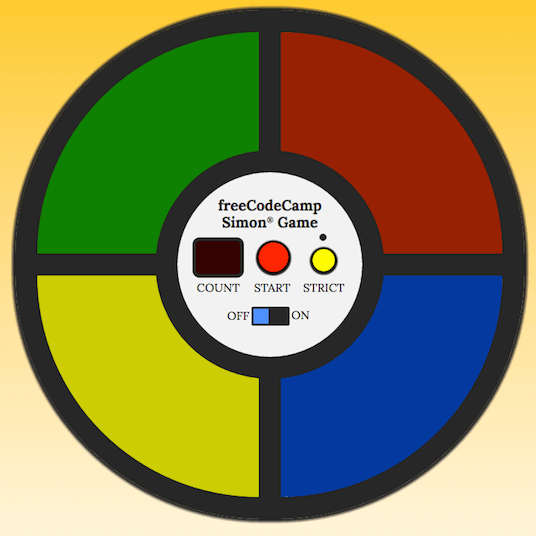
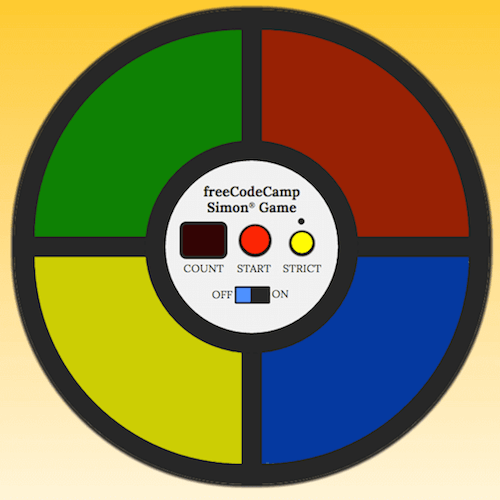
add new cards

diff --git a/index.html b/index.html
@@ -48,69 +48,68 @@
             <p class="col-sm-12">Click on the images below to see what I've been working on recently.</p>
             <article class="card col-sm-6 col-md-4 col-lg-3">
                 <a href="http://codepen.io/matt2112/full/KzvVBX/" target="_blank">
-                    <img class="card-img-top img-fluid" src="img/calc.png" alt="Card image cap">
+                    <img class="card-img-top img-fluid" src="img/calc.png" alt="project screenshot">
                 </a>
                 <div class="card-block">
                     <h4 class="card-title">Calculator</h4>
-                    <p class="card-text">A simple calculator built using Javascript and CSS.</p>
+                    <p class="card-text">A simple calculator, built using Javascript and CSS.</p>
                 </div>
                 <a href="http://codepen.io/matt2112/pen/KzvVBX" target="_blank" class="btn btn-primary code-link">View code on CodePen</a>
             </article>
 
             <article class="card col-sm-6 col-md-4 col-lg-3">
                 <a href="http://codepen.io/matt2112/full/LkLyGO/" target="_blank">
-                    <img class="card-img-top img-fluid" src="img/simon.png" alt="Card image cap">
+                    <img class="card-img-top img-fluid" src="img/simon.png" alt="project screenshot">
                 </a>
                 <div class="card-block">
                     <h4 class="card-title">Simon Game</h4>
-                    <p class="card-text">A Simon Game imitation built using Javascript and CSS.</p>
+                    <p class="card-text">A Simon Game imitation, built using Javascript and CSS.</p>
                 </div>
                 <a href="http://codepen.io/matt2112/pen/LkLyGO" target="_blank" class="btn btn-primary code-link">View code on CodePen</a>
             </article>
 
             <article class="card col-sm-6 col-md-4 col-lg-3">
-                <img class="card-img-top img-fluid" src="img/calc.png" alt="Card image cap">
+                <a href="http://codepen.io/matt2112/full/QyPqLq/" target="_blank">
+                    <img class="card-img-top img-fluid" src="img/russelltribute.png" alt="project screenshot">
+                </a>
                 <div class="card-block">
-                    <h4 class="card-title">Project 1</h4>
-                    <p class="card-text">Some quick example text to build on the card title and make up the bulk of the card's content.</p>
-                    <a href="#" class="btn btn-primary">Go somewhere</a>
+                    <h4 class="card-title">Bertrand Russell tribute page</h4>
+                    <p class="card-text">A simple tribute page to the philosopher, built using CSS and Bootstrap 3.</p>
                 </div>
+                <a href="http://codepen.io/matt2112/pen/QyPqLq" target="_blank" class="btn btn-primary code-link">View code on CodePen</a>
             </article>
 
             <article class="card col-sm-6 col-md-4 col-lg-3">
-                <img class="card-img-top img-fluid" src="img/calc.png" alt="Card image cap">
+                <a href="http://codepen.io/matt2112/full/BzzrOB/" target="_blank">
+                    <img class="card-img-top img-fluid" src="img/pomodoro.png" alt="project screenshot">
+                </a>
                 <div class="card-block">
-                    <h4 class="card-title">Project 1</h4>
-                    <p class="card-text">Some quick example text to build on the card title and make up the bulk of the card's content.</p>
-                    <a href="#" class="btn btn-primary">Go somewhere</a>
+                    <h4 class="card-title">Pomodoro Clock</h4>
+                    <p class="card-text">A timer for practitioners of the pomodoro technique, built using Javascript, CSS and jQuery.</p>
                 </div>
+                <a href="http://codepen.io/matt2112/pen/BzzrOB" target="_blank" class="btn btn-primary code-link">View code on CodePen</a>
             </article>
 
             <article class="card col-sm-6 col-md-4 col-lg-3">
-                <img class="card-img-top img-fluid" src="img/calc.png" alt="Card image cap">
+                <a href="http://codepen.io/matt2112/full/vGGByN/" target="_blank">
+                    <img class="card-img-top img-fluid" src="img/weather.png" alt="project screenshot">
+                </a>
                 <div class="card-block">
-                    <h4 class="card-title">Project 1</h4>
-                    <p class="card-text">Some quick example text to build on the card title and make up the bulk of the card's content.</p>
-                    <a href="#" class="btn btn-primary">Go somewhere</a>
+                    <h4 class="card-title">Local Weather App</h4>
+                    <p class="card-text">An app to access information about the local weather using an API, built using Javascript, CSS and jQuery.</p>
                 </div>
+                <a href="http://codepen.io/matt2112/pen/vGGByN" target="_blank" class="btn btn-primary code-link">View code on CodePen</a>
             </article>
 
             <article class="card col-sm-6 col-md-4 col-lg-3">
-                <img class="card-img-top img-fluid" src="img/calc.png" alt="Card image cap">
+                <a href="http://codepen.io/matt2112/full/pyZrNr/" target="_blank">
+                    <img class="card-img-top img-fluid" src="img/wikipedia.png" alt="project screenshot">
+                </a>
                 <div class="card-block">
-                    <h4 class="card-title">Project 1</h4>
-                    <p class="card-text">Some quick example text to build on the card title and make up the bulk of the card's content.</p>
-                    <a href="#" class="btn btn-primary">Go somewhere</a>
+                    <h4 class="card-title">Wikipedia App</h4>
+                    <p class="card-text">An app that interfaces with Wikipedia's API, built using Javascript, CSS and jQuery.</p>
                 </div>
-            </article>
-
-            <article class="card col-sm-6 col-md-4 col-lg-3">
-                <img class="card-img-top img-fluid" src="img/calc.png" alt="Card image cap">
-                <div class="card-block">
-                    <h4 class="card-title">Project 1</h4>
-                    <p class="card-text">Some quick example text to build on the card title and make up the bulk of the card's content.</p>
-                    <a href="#" class="btn btn-primary">Go somewhere</a>
-                </div>
+                <a href="http://codepen.io/matt2112/pen/pyZrNr" target="_blank" class="btn btn-primary code-link">View code on CodePen</a>
             </article>
 
             <article class="card col-sm-6 col-md-4 col-lg-3">
@@ -123,16 +122,16 @@
             </article>
         </section>
         <section id="about" class="row">
-            <header>
+            <header class="col-xs-12">
                 <h3>About</h3>
             </header>
-            <div>
+            <div class="col-xs-12">
                 <p>These are some languages I'm proficient in.</p>
             </div>
         </section>
 
         <section class="row">
-            <header>
+            <header class="col-xs-12">
                 <h3>Contact</h3>
             </header>
         </section>

diff --git a/styles/styles.css b/styles/styles.css
@@ -12,7 +12,15 @@
   font-size: 2em; }
 
 img {
-  padding-top: 15px; }
+  padding-top: 15px;
+  opacity: 0.7;
+  filter: alpha(opacity=70);
+  /* For IE8 and earlier */ }
+
+img:hover {
+  opacity: 1.0;
+  filter: alpha(opacity=100);
+  /* For IE8 and earlier */ }
 
 #navList {
   clear: both; }
@@ -22,8 +30,10 @@ img {
   height: 40px; }
 
 .card-block {
-  padding-left: 3%;
-  min-height: 160px; }
+  padding-left: 3%; }
+
+.card-block > p {
+  padding-bottom: 40px; }
 
 .code-link {
   position: absolute;

diff --git a/styles/styles.scss b/styles/styles.scss
@@ -20,6 +20,13 @@
 
 img {
     padding-top: 15px;
+    opacity: 0.7;
+    filter: alpha(opacity=70); /* For IE8 and earlier */
+}
+
+img:hover {
+    opacity: 1.0;
+    filter: alpha(opacity=100); /* For IE8 and earlier */
 }
 
 #navList {
@@ -33,7 +40,11 @@ img {
 
 .card-block {
     padding-left: 3%;
-    min-height: 160px;
+}
+
+
+.card-block > p {
+    padding-bottom: 40px;
 }
 
 .code-link {
@@ -41,3 +52,4 @@ img {
     bottom: 10px;
     margin-left: 3%;
 }
+
